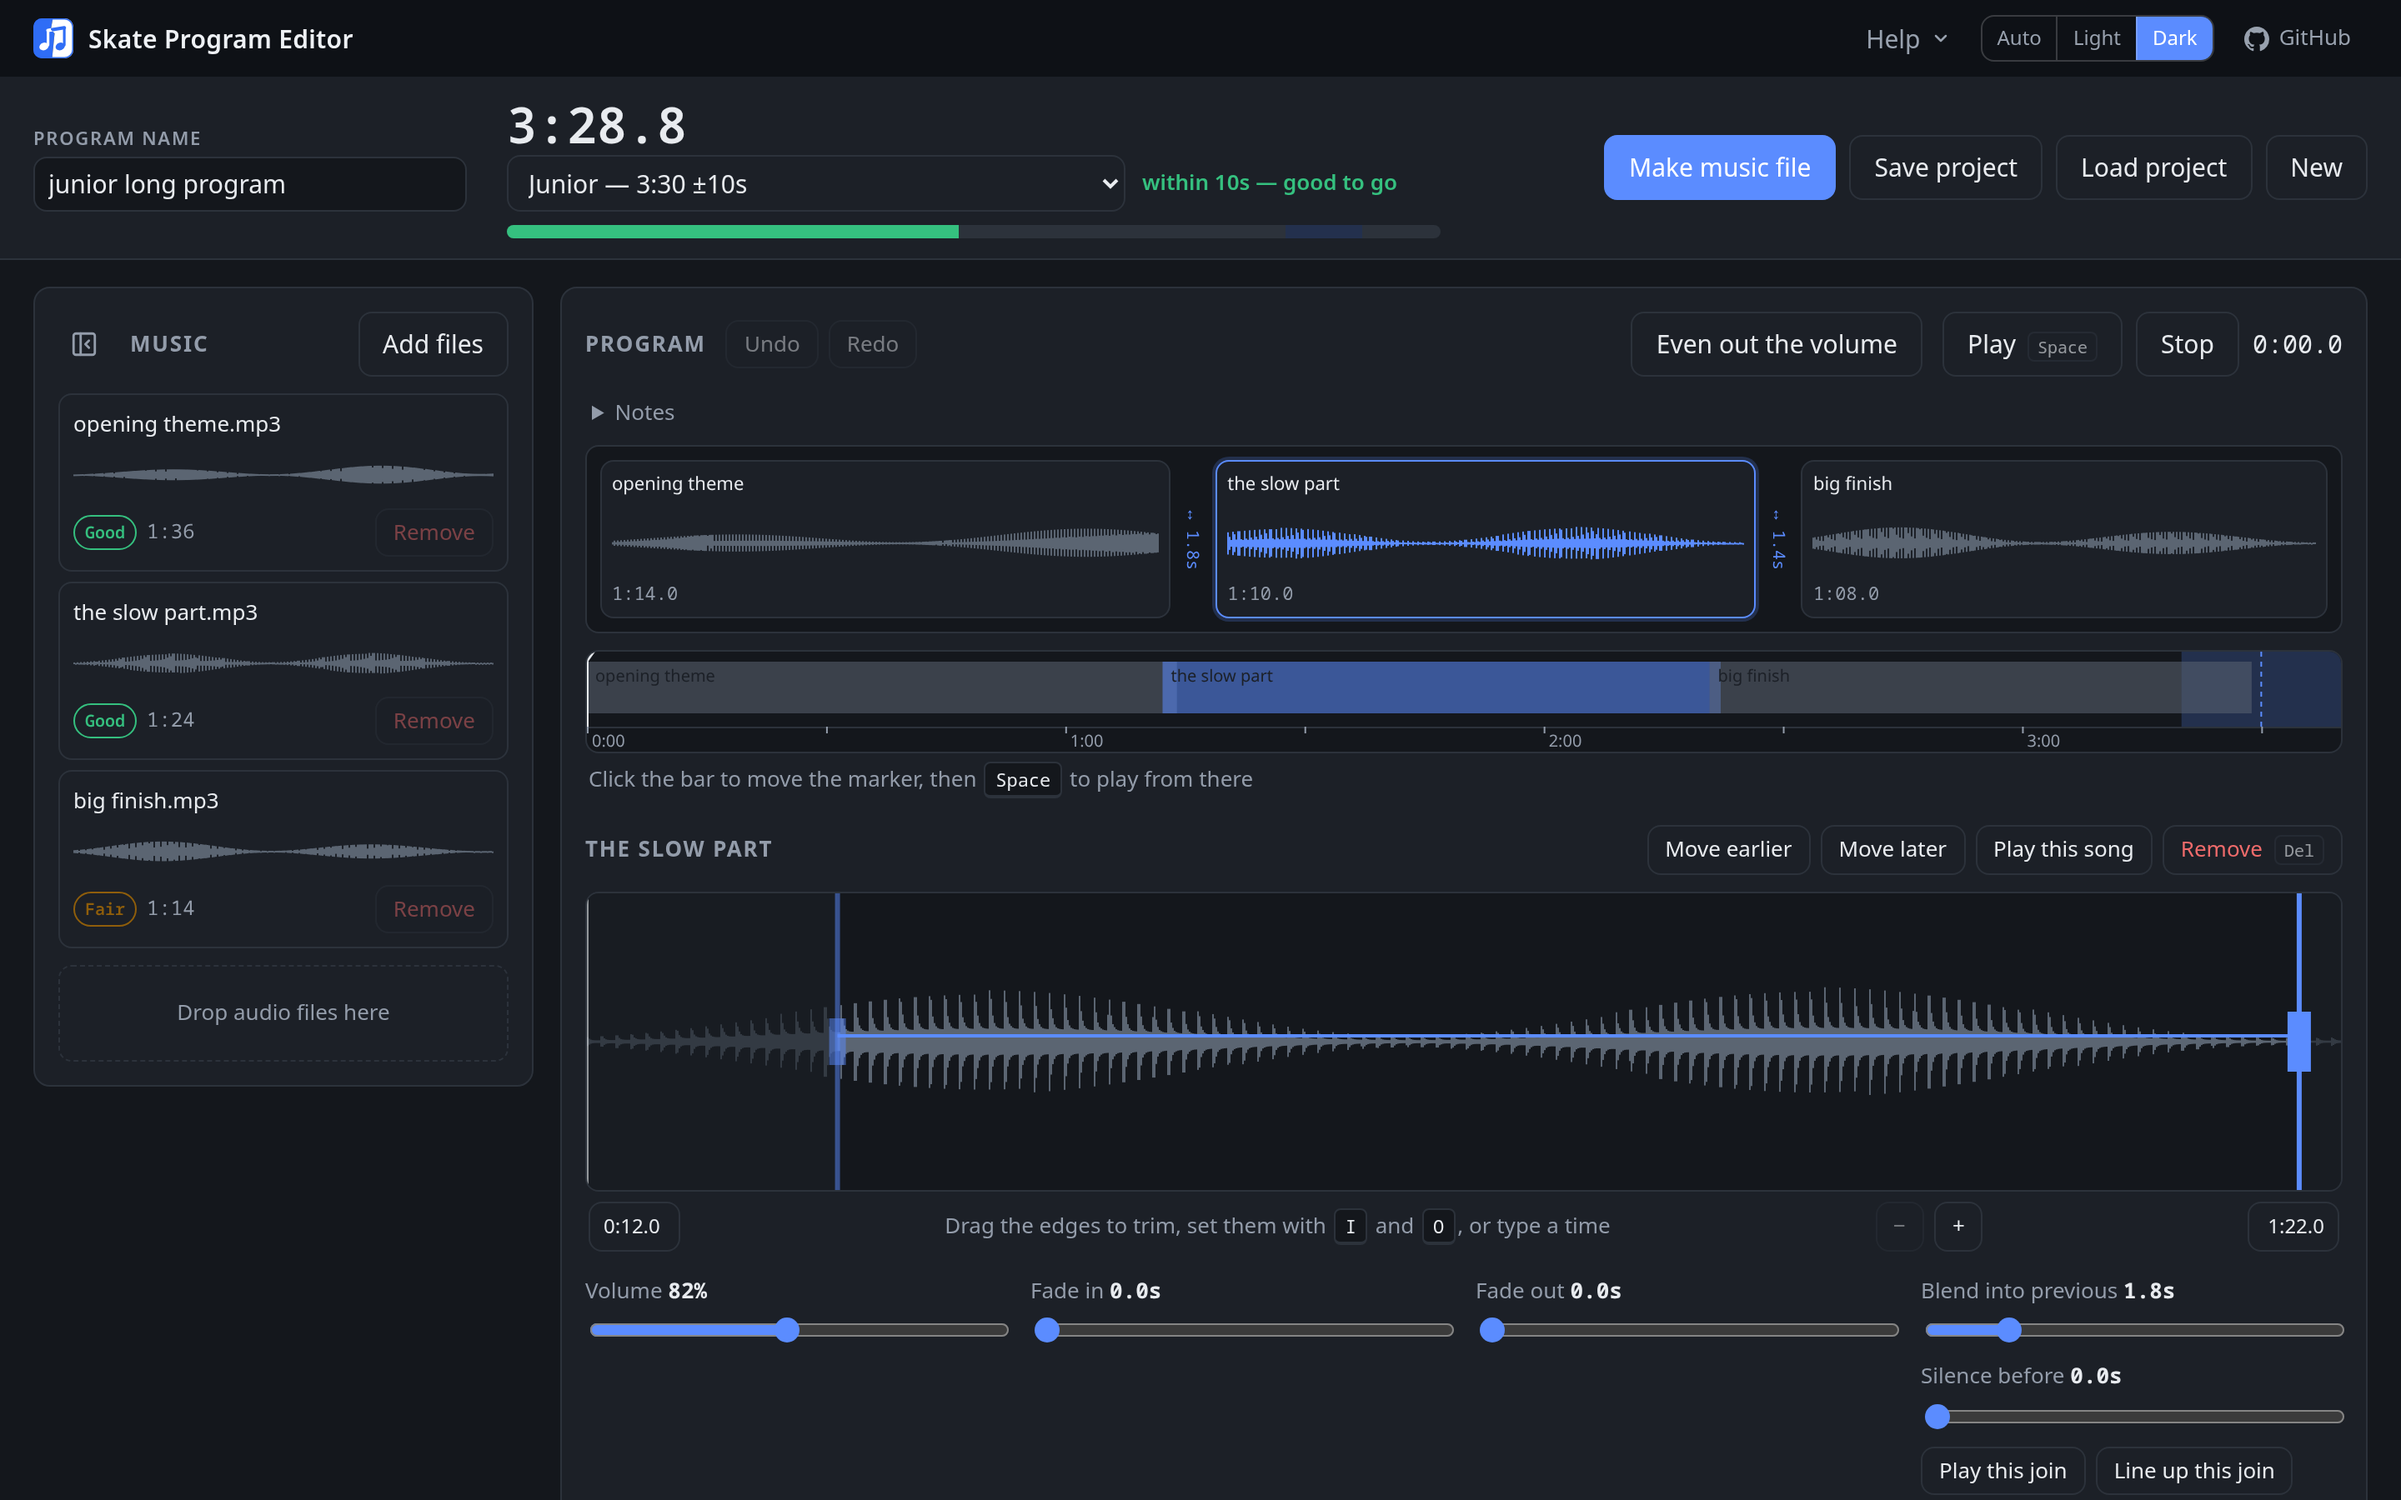
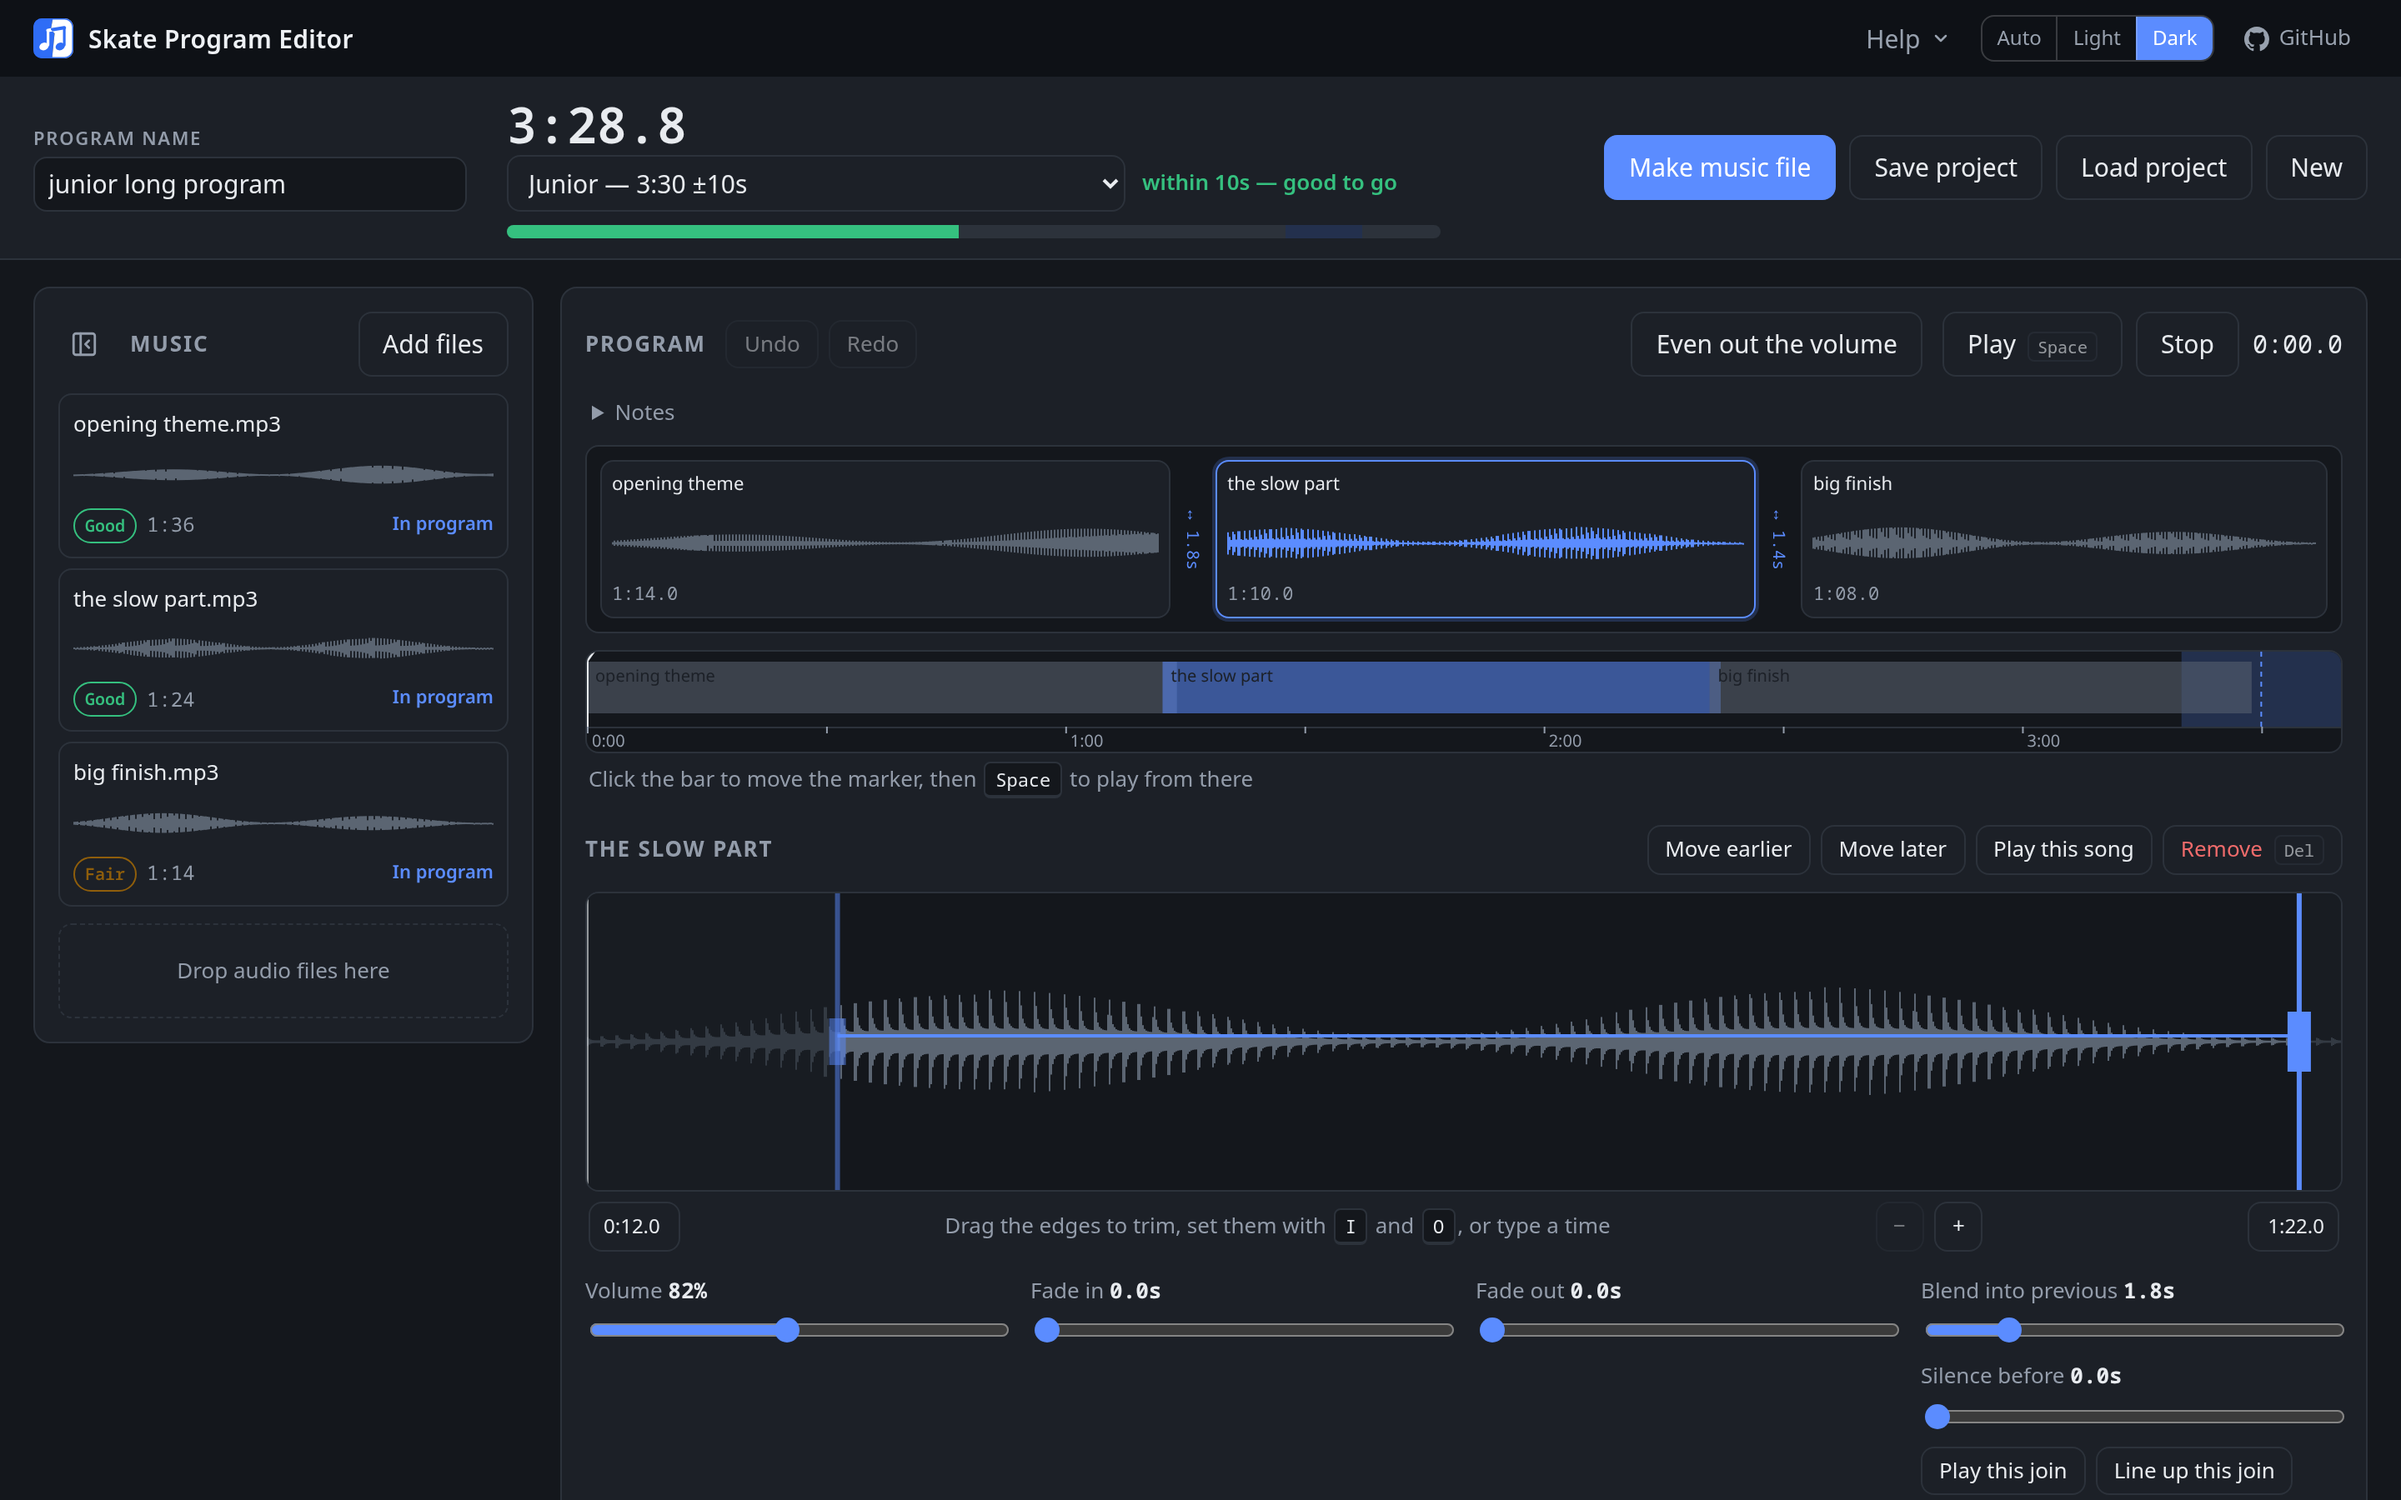
Say on each card whether it is in the program (#154)
Remove is hidden while the program uses the song.

diff --git a/src/library.js b/src/library.js
@@ -345,6 +345,18 @@ function renderLibrary() {
       row.insertBefore(badge, row.firstChild);
     }
 
+    /* Whether the program uses this song, said on the card rather than left to
+       be worked out from which buttons are offered. It also says why there is
+       no Remove: a tooltip on a grayed button never shows on a touchscreen. */
+    const used = clipsUsing(entry.name);
+    if (used) {
+      const tag = document.createElement('span');
+      tag.className = 'lib-used';
+      tag.textContent = `In program${used === 1 ? '' : used === 2 ? ' twice' : ` ${used} times`}`;
+      tag.title = 'Take it out of the program to remove it from this list';
+      row.insertBefore(tag, dur.nextSibling);
+    }
+
     if (entry.state === 'ready') {
       const add = document.createElement('button');
       add.className = 'small';
@@ -360,7 +372,6 @@ function renderLibrary() {
        and a better one added; a song the program is built on cannot be removed
        without gutting the edit, and swapping underneath it is the only way to
        change which file it plays from. */
-    const used = clipsUsing(entry.name);
     if (used && entry.state === 'ready') {
       li.classList.add('swappable');
       const swap = document.createElement('button');
@@ -379,6 +390,10 @@ function renderLibrary() {
     drop.dataset.action = 'remove';
     drop.textContent = 'Remove';
     drop.disabled = used > 0;
+    /* Not shown at all while the program uses it: the tag says why, and a
+       grayed button beside it would only repeat it less clearly. Disabled as
+       well, so a shell's menu reads it as unavailable. */
+    drop.classList.toggle('hidden', used > 0);
     /* Two different promises, because two different things happen. Opened as a
        web page this has no file to touch and never did. Opened on a project
        folder it takes the song out of that folder as well — which is the point

diff --git a/test/dom/run.js b/test/dom/run.js
@@ -2251,6 +2251,28 @@ async function main() {
       );
     });
 
+    await check('a song in the program says so on its card, and how often', async () => {
+      /* #107. Which buttons were offered was the only clue, and the reason
+         Remove was grayed lived in a tooltip a touchscreen never shows. */
+      const result = await run(`
+        window.__reset([['a.mp3', window.__tune(1)], ['b.mp3', window.__tune(2)]]);
+        addClip(library.get('b.mp3'));
+        window.__addToLibrary('spare.mp3', window.__tune(3));
+        renderLibrary();
+        return [...document.querySelectorAll('#libraryList li')].map((li) => {
+          const tag = li.querySelector('.lib-used');
+          const remove = li.querySelector('[data-action="remove"]');
+          return { file: li.dataset.song, tag: tag ? tag.textContent : null,
+                   removeShown: !remove.classList.contains('hidden') };
+        });
+      `);
+      eq(result, [
+        { file: 'a.mp3', tag: 'In program', removeShown: false },
+        { file: 'b.mp3', tag: 'In program twice', removeShown: false },
+        { file: 'spare.mp3', tag: null, removeShown: true },
+      ]);
+    });
+
     await check('a better copy of the same song keeps every trim', async () => {
       const result = await run(`
         window.__reset([['rough.mp3', window.__tune(4, 20)]]);

diff --git a/src/style.css b/src/style.css
@@ -539,6 +539,15 @@ section {
   font-size: 12px;
   color: var(--muted);
 }
+/* In the program: plain words in the accent, not a badge, so it does not read
+   as a verdict on the song the way Good / Fair / Low do. */
+#libraryList .lib-used {
+  flex: 0 0 auto;
+  font-size: 11px;
+  font-weight: 600;
+  color: var(--accent);
+  white-space: nowrap;
+}
 #libraryList canvas {
   width: 100%;
   height: 28px;

diff --git a/CONTRIBUTING.md b/CONTRIBUTING.md
@@ -56,7 +56,7 @@ Two more that matter nearly as much:
 
 ```sh
 npm test              # 282 unit checks, no browser, about a second
-npm run test:dom      # 99 checks driving real Chrome over CDP
+npm run test:dom      # 100 checks driving real Chrome over CDP
 npm run lint          # eslint
 pre-commit run --all-files    # everything CI runs
 npm run test:mutate   # breaks the code on purpose to see if the tests notice

diff --git a/docs/development.md b/docs/development.md
@@ -245,7 +245,7 @@ did none of what they described.
 
 ### Browser checks
 
-`npm run test:dom` — 99 checks in real headless Chrome, driven over the DevTools
+`npm run test:dom` — 100 checks in real headless Chrome, driven over the DevTools
 Protocol. No dependency: Node 22 has a global `WebSocket`, and Chrome speaks CDP
 over one.
 
